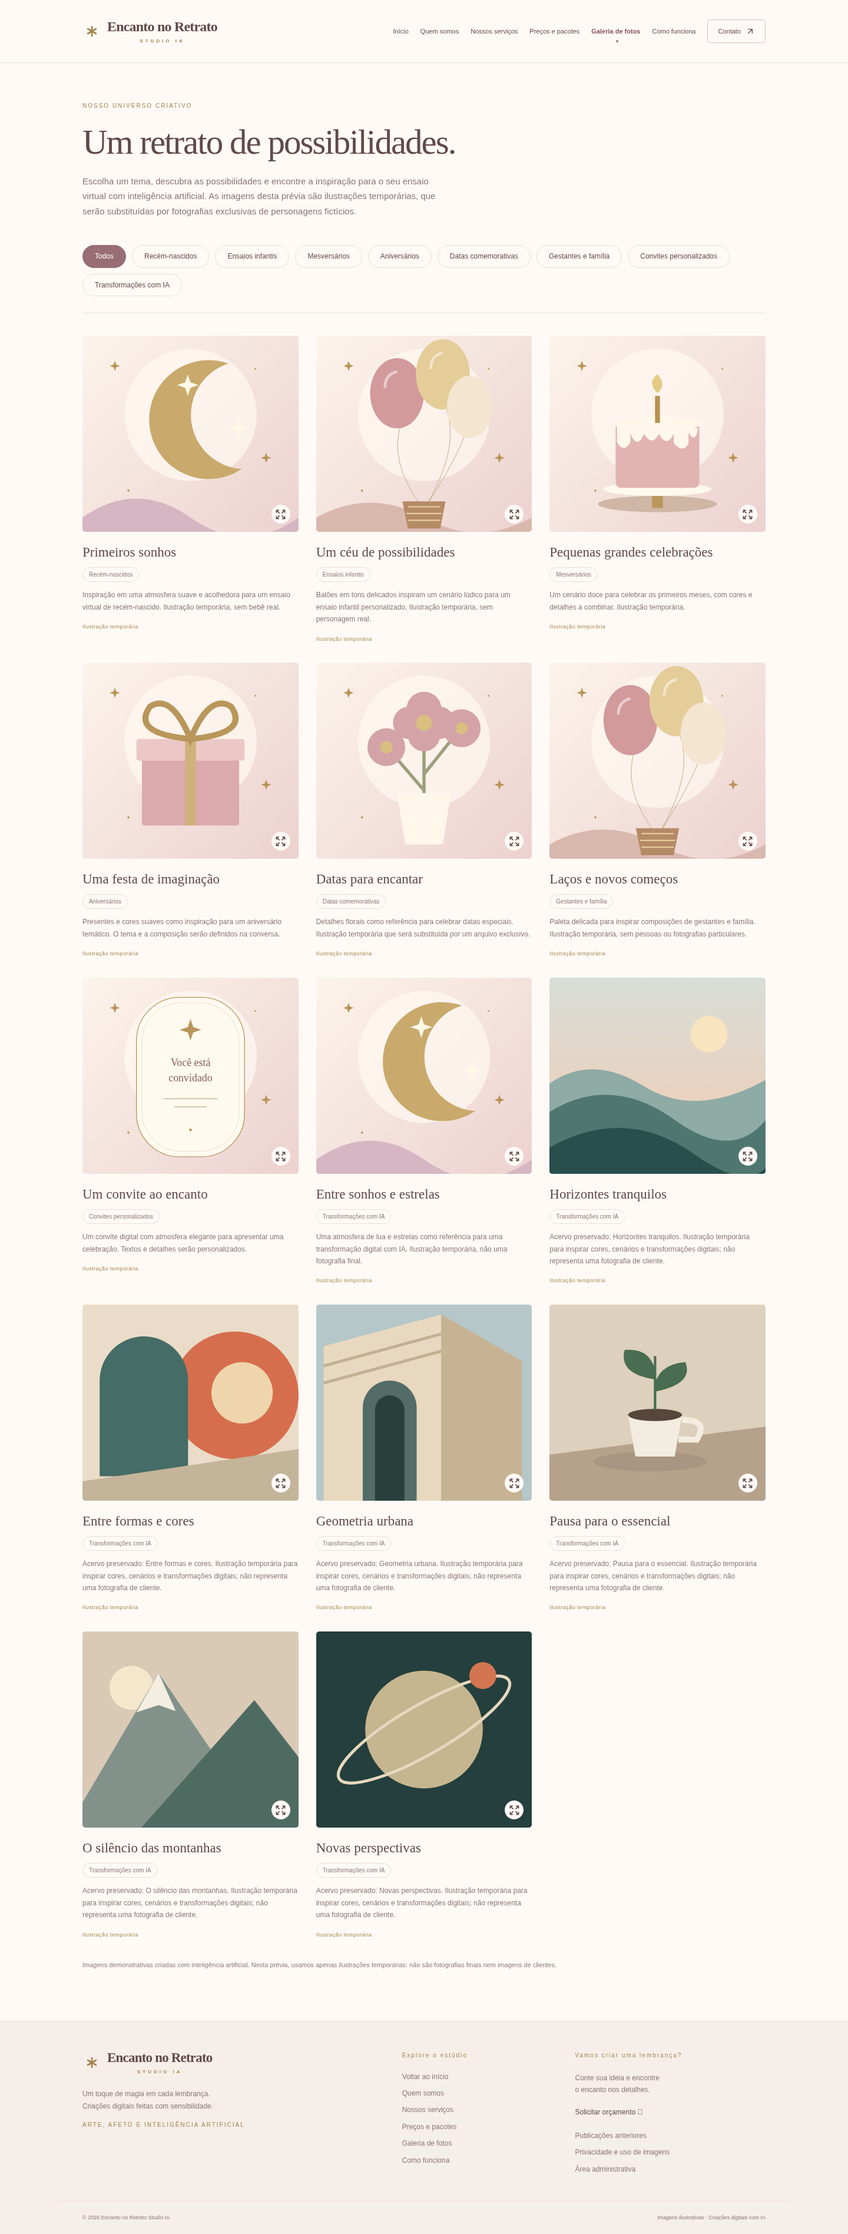
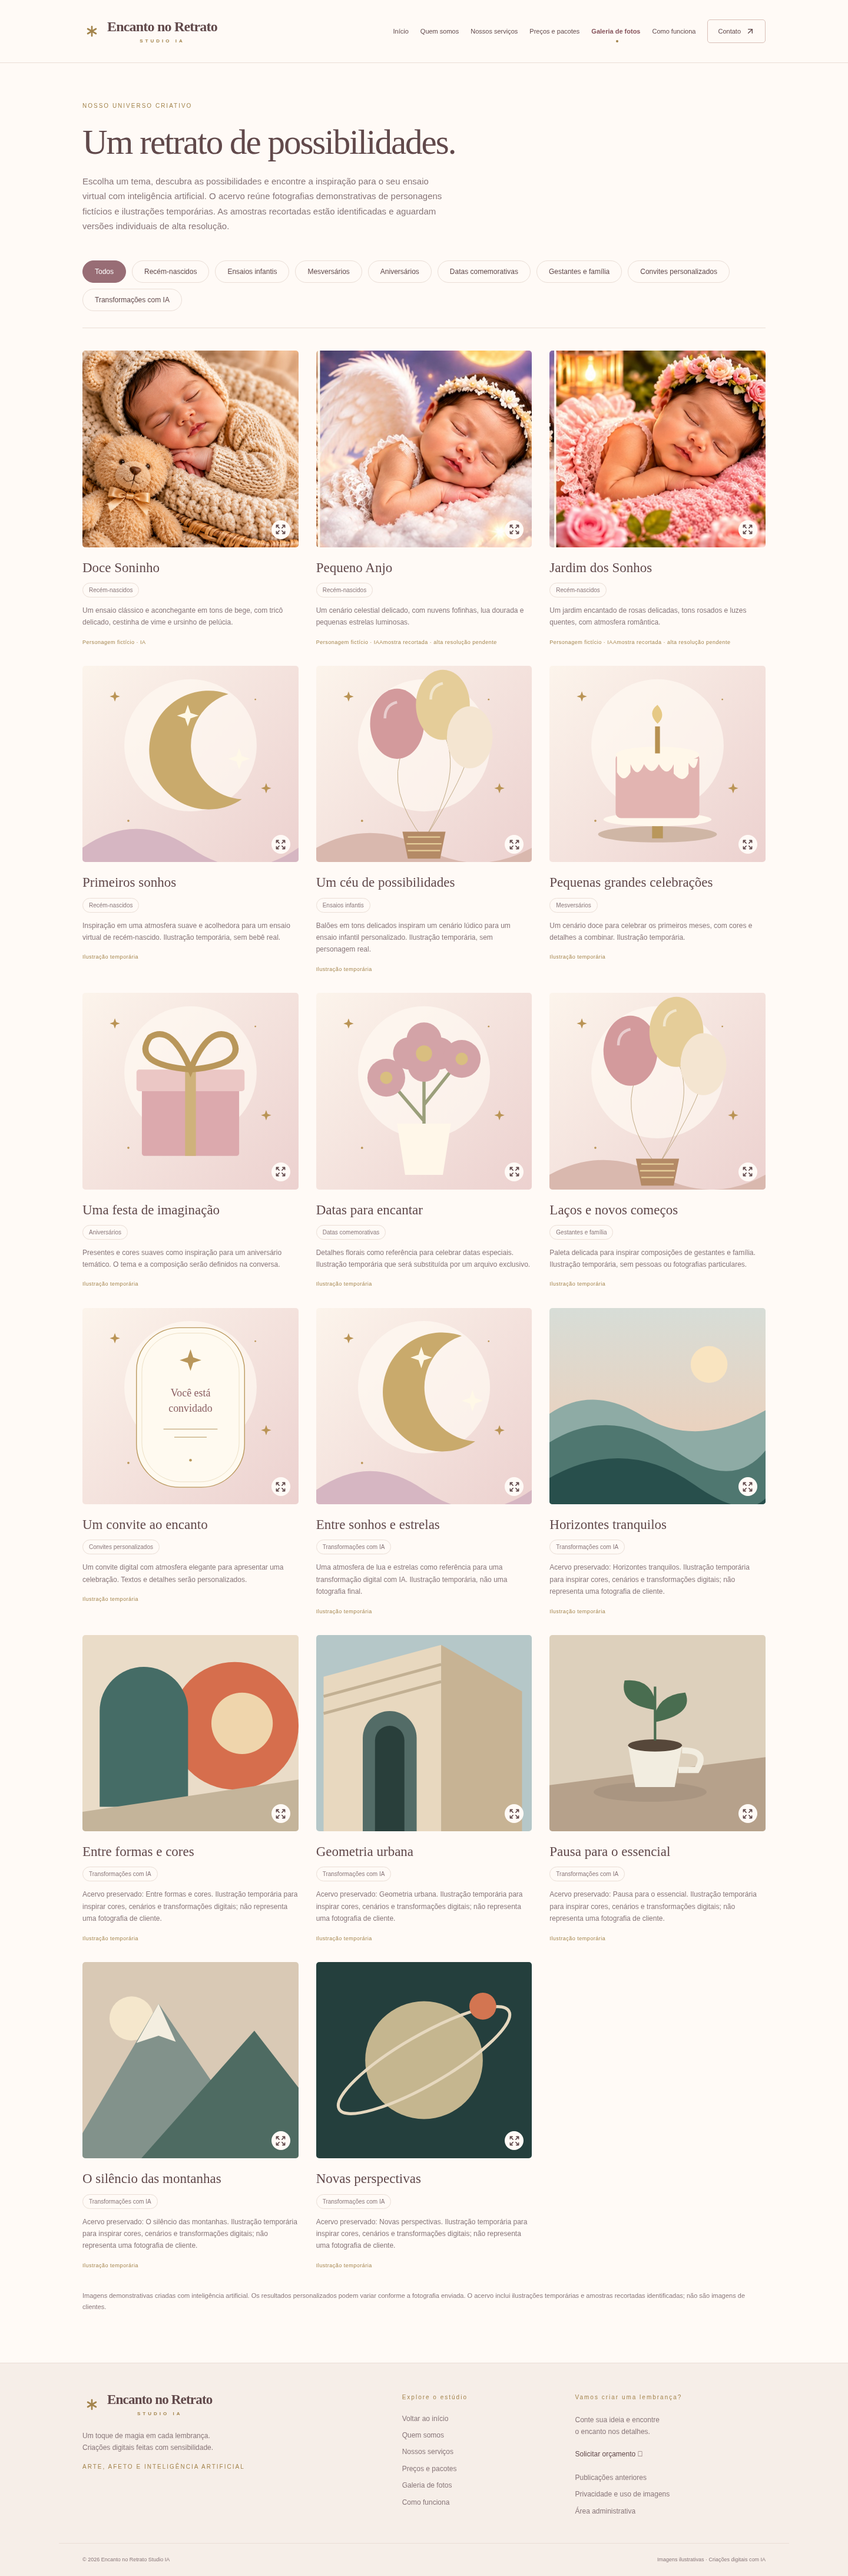
Integrate newborn demo collection with cropped sample notices and prompt records

diff --git a/src/components/content-browser.tsx b/src/components/content-browser.tsx
@@ -110,6 +110,11 @@ export function Gallery({
                 ? "Personagem fictício · IA"
                 : "Ilustração temporária"}
             </span>
+            {p.sample && (
+              <span className="catalog-label">
+                Amostra recortada · alta resolução pendente
+              </span>
+            )}
           </button>
         ))}
       </div>
@@ -120,9 +125,10 @@ export function Gallery({
         </p>
       )}
       <p className="demo-note">
-        Imagens demonstrativas criadas com inteligência artificial. Nesta
-        prévia, usamos apenas ilustrações temporárias: não são fotografias
-        finais nem imagens de clientes.
+        Imagens demonstrativas criadas com inteligência artificial. Os
+        resultados personalizados podem variar conforme a fotografia enviada. O
+        acervo inclui ilustrações temporárias e amostras recortadas
+        identificadas; não são imagens de clientes.
       </p>
       <dialog
         ref={dialog}
@@ -178,6 +184,13 @@ export function Gallery({
                   ? "Imagem demonstrativa criada com IA · personagem fictício"
                   : "Ilustração temporária · arquivo definitivo em preparação"}
               </span>
+              {photo.sample && (
+                <p className="demo-note">
+                  Amostra recortada de apresentação composta. Versão individual
+                  de alta resolução pendente; substituir antes de publicar. O
+                  arquivo foi preservado sem ampliação artificial.
+                </p>
+              )}
               <h2>{photo.title}</h2>
               <p>
                 {photo.description ||

diff --git a/src/lib/newborn-collection.ts b/src/lib/newborn-collection.ts
@@ -1,0 +1,34 @@
+import type { Photo } from "./studio";
+// Prompts and source instructions are kept outside public assets, in docs/colecoes.
+export const newbornCollection: Photo[] = [
+  {
+    id: "rn-01",
+    title: "Doce Soninho",
+    album: "Recém-nascidos",
+    description:
+      "Um ensaio clássico e aconchegante em tons de bege, com tricô delicado, cestinha de vime e ursinho de pelúcia.",
+    image: "/images/recem-nascidos/RN_01_Doce_Soninho.jpg",
+    kind: "ai",
+    sample: false,
+  },
+  {
+    id: "rn-02",
+    title: "Pequeno Anjo",
+    album: "Recém-nascidos",
+    description:
+      "Um cenário celestial delicado, com nuvens fofinhas, lua dourada e pequenas estrelas luminosas.",
+    image: "/images/recem-nascidos/RN_02_Pequeno_Anjo.jpg",
+    kind: "ai",
+    sample: true,
+  },
+  {
+    id: "rn-03",
+    title: "Jardim dos Sonhos",
+    album: "Recém-nascidos",
+    description:
+      "Um jardim encantado de rosas delicadas, tons rosados e luzes quentes, com atmosfera romântica.",
+    image: "/images/recem-nascidos/RN_03_Jardim_dos_Sonhos.jpg",
+    kind: "ai",
+    sample: true,
+  },
+];

diff --git a/src/components/studio-editor.tsx b/src/components/studio-editor.tsx
@@ -309,6 +309,29 @@ export function StudioEditor({
                   </option>
                 </select>
               </label>
+              <label>
+                Qualidade do arquivo
+                <select
+                  value={p.sample ? "sample" : "regular"}
+                  onChange={(e) =>
+                    set(
+                      "photos",
+                      data.photos.map((x) =>
+                        x.id === p.id
+                          ? { ...x, sample: e.target.value === "sample" }
+                          : x,
+                      ),
+                    )
+                  }
+                >
+                  <option value="regular">
+                    Imagem individual — revisar antes de publicar
+                  </option>
+                  <option value="sample">
+                    Amostra recortada — substituir por alta resolução
+                  </option>
+                </select>
+              </label>
               <div className="admin-inline gallery-order">
                 <span>
                   Posição {i + 1} de {data.photos.length}

diff --git a/src/app/galeria/page.tsx b/src/app/galeria/page.tsx
@@ -11,7 +11,7 @@ export default async function Page() {
       <PageIntro
         eyebrow="NOSSO UNIVERSO CRIATIVO"
         title="Um retrato de possibilidades."
-        description="Escolha um tema, descubra as possibilidades e encontre a inspiração para o seu ensaio virtual com inteligência artificial. As imagens desta prévia são ilustrações temporárias, que serão substituídas por fotografias exclusivas de personagens fictícios."
+        description="Escolha um tema, descubra as possibilidades e encontre a inspiração para o seu ensaio virtual com inteligência artificial. O acervo reúne fotografias demonstrativas de personagens fictícios e ilustrações temporárias. As amostras recortadas estão identificadas e aguardam versões individuais de alta resolução."
       />
       <Gallery
         photos={c.photos.map((p) => ({

diff --git a/src/lib/studio.ts b/src/lib/studio.ts
@@ -1,4 +1,5 @@
 import { photos } from "./content";
+import { newbornCollection } from "./newborn-collection";
 import { galleryCategories } from "./gallery";
 export type Photo = {
   id: string;
@@ -7,6 +8,7 @@ export type Photo = {
   image: string;
   description?: string;
   kind?: "placeholder" | "ai";
+  sample?: boolean;
 };
 export type Service = {
   id: string;
@@ -50,6 +52,7 @@ export const defaults: StudioContent = {
   instagramDirect: "",
   categories: [...galleryCategories],
   photos: [
+    ...newbornCollection,
     {
       id: "newborn-demo",
       title: "Primeiros sonhos",

diff --git a/src/lib/validation.ts b/src/lib/validation.ts
@@ -50,6 +50,7 @@ export const contentSchema = z
           image: imagePath,
           description: z.string().trim().max(2000).default(""),
           kind: z.enum(["placeholder", "ai"]).default("placeholder"),
+          sample: z.boolean().default(false),
         }),
       )
       .max(500),

diff --git a/docs/colecoes/RECEM_NASCIDOS.md b/docs/colecoes/RECEM_NASCIDOS.md
@@ -1,0 +1,34 @@
+# Primeira coleção Recém-nascidos — somente prévia
+
+A categoria já existia na branch `desenvolvimento-galeria`. Três novas referências foram acrescentadas ao início do catálogo local, sem remover as 14 referências anteriores, categorias, páginas ou arquivos. Não houve alteração de CSS, cores, fontes, navegação, serviços ou preços.
+
+| Arquivo                     | Título            | Dimensões      | Avaliação e pendência                                                                                                                                 |
+| --------------------------- | ----------------- | -------------- | ----------------------------------------------------------------------------------------------------------------------------------------------------- |
+| RN_01_Doce_Soninho.jpg      | Doce Soninho      | 1122 × 1402 px | JPEG íntegro; imagem com detalhes mais definidos, proporção próxima de 4:5. Adequada para avaliação na prévia. Publicação ainda depende de aprovação. |
+| RN_02_Pequeno_Anjo.jpg      | Pequeno Anjo      | 407 × 625 px   | Amostra recortada, resolução limitada e borda clara do recorte visível. Substituir por arquivo individual de alta resolução antes de publicar.        |
+| RN_03_Jardim_dos_Sonhos.jpg | Jardim dos Sonhos | 412 × 625 px   | Amostra recortada, resolução limitada e borda clara do recorte visível. Substituir por arquivo individual de alta resolução antes de publicar.        |
+
+Os JPEGs foram decodificados e inspecionados visualmente. Não contêm campos EXIF. Foram copiados sem recompactação, edição, novo recorte ou ampliação artificial; os hashes dos arquivos originais estão no manifesto. As imagens 02 e 03 não são apresentadas como originais finais de alta resolução. O modal permite ver o arquivo completo e abrir o original.
+
+A informação de origem IA e variação de resultados aparece na galeria. As amostras recebem aviso nos cartões e no modal. Títulos e descrições públicos são os fornecidos no ZIP. A declaração de personagens fictícios vem do pacote; não há fotografias de clientes ou filhos adicionadas nesta etapa.
+
+## Arquivos e reprodução futura
+
+- `src/lib/newborn-collection.ts`: dados públicos, sem prompts.
+- `public/images/recem-nascidos/`: os três JPEGs originais.
+- `docs/colecoes/recem-nascidos.prompts.json`: títulos, descrições, prompts originais, dimensões, pendências e hashes, organizados para consulta futura.
+- `docs/colecoes/INSTRUCOES_PARA_CODEX_RECEM_NASCIDOS.md`: referência às instruções fornecidas.
+
+Os documentos em `docs/` não são rotas ou arquivos estáticos públicos do site e não são importados pelos componentes. Os prompts são apenas registros: não foram executados. Referências futuras devem ser fictícias ou autorizadas; manter os exemplos como criações digitais, sem tratar cenários de fantasia como poses físicas reais.
+
+## Substituir as amostras depois
+
+Após receber as versões individuais definitivas, substituir somente o arquivo/referência correspondente, preservando ID, título, descrição e categoria. O campo `sample` mantém a pendência identificada. Não basta ampliar o JPEG atual para remover a pendência.
+
+O painel ganhou uma seleção de qualidade para conservar esse aviso e removê-lo somente após conferir o arquivo substituto. Login, upload e gravação continuam pendentes da configuração do Supabase. Nenhum serviço externo foi configurado. Para um banco já preenchido futuramente, importar as novas referências de forma aditiva pelo painel; o conteúdo local não sobrescreve o banco.
+
+## Testar no Windows
+
+Baixe a branch `desenvolvimento-galeria` atualizada no GitHub por Code > Download ZIP e extraia em uma pasta nova. Com Node.js LTS instalado, abra `cmd` na pasta com `package.json` e execute `npm ci`, depois `npm run dev`. Abra `http://localhost:3000/galeria` e selecione Recém-nascidos. São três fotografias demonstrativas novas e uma ilustração anterior preservada. Clique em cada uma para conferir descrição, qualidade e “Quero um ensaio assim”.
+
+Sem links oficiais, os botões de Instagram e Messenger continuam indicados como indisponíveis; o resumo copiável funciona. Sem Supabase, o catálogo usa dados locais. Nenhum deploy ou alteração da branch main faz parte desta integração.

diff --git a/docs/colecoes/INSTRUCOES_PARA_CODEX_RECEM_NASCIDOS.md b/docs/colecoes/INSTRUCOES_PARA_CODEX_RECEM_NASCIDOS.md
@@ -1,0 +1,30 @@
+# Encanto no Retrato Studio IA — Coleção Recém-nascidos
+
+Estas imagens são demonstrações geradas por IA, com bebês fictícios. RN_02 e RN_03 foram recortadas de uma apresentação composta e têm resolução inferior à imagem RN_01; são amostras iniciais, não arquivos finais de alta resolução. Antes da publicação, verificar qualidade visual e aprovação.
+
+## RN_01_Doce_Soninho.jpg
+Categoria: Recém-nascidos (se não existir, cadastrar como nova categoria somente após aprovação, sem substituir categorias existentes)
+Título: Doce Soninho
+Descrição: Um ensaio clássico e aconchegante em tons de bege, com tricô delicado, cestinha de vime e ursinho de pelúcia.
+Prompt de estilo: Criar retrato fotográfico profissional do bebê da foto de referência, preservando suas características faciais sem inventar identidade. Cenário de estúdio bege, cesta de vime acolchoada, manta e gorro de tricô creme com orelhinhas, ursinho de pelúcia bege ao lado, luz suave e quente, textura realista, enquadramento vertical 4:5. Não alterar a anatomia, não acrescentar dedos ou membros, sem texto ou marcas. Priorizar segurança: não colocar bebê real em pose arriscada; composições de fantasia são digitais.
+
+## RN_02_Pequeno_Anjo.jpg
+Categoria: Recém-nascidos
+Título: Pequeno Anjo
+Descrição: Um cenário celestial delicado, com nuvens fofinhas, lua dourada e pequenas estrelas luminosas.
+Prompt de estilo: Retrato fotográfico de fantasia do bebê da foto de referência, preservando características faciais. Bebê aparentemente dormindo sobre nuvens digitais, cenário celestial lavanda e rosa-claro, lua crescente dourada e estrelas brilhantes, asas de anjo como elemento visual digital decorativo, roupa branca delicada, luz suave, realismo cinematográfico, vertical 4:5. Sem texto ou marcas; não representar cenário como pose física real.
+
+## RN_03_Jardim_dos_Sonhos.jpg
+Categoria: Recém-nascidos
+Título: Jardim dos Sonhos
+Descrição: Um jardim encantado de rosas delicadas, tons rosados e luzes quentes, com atmosfera romântica.
+Prompt de estilo: Retrato fotográfico de fantasia do bebê da foto de referência, preservando características faciais. Bebê em repouso seguro sobre manta rosa, roupa de renda rosa e coroa de flores, jardim digital de rosas cor-de-rosa, folhagens e lanternas quentes ao fundo, bokeh suave, estética fotográfica realista, vertical 4:5. Sem texto ou marcas, sem poses físicas arriscadas.
+
+## Regras de implementação
+- Manter layout, fontes, cores, navegação, preços e categorias existentes.
+- Antes de criar a categoria Recém-nascidos, verificar se ela já existe; se não existir, solicitar aprovação para acrescentá-la.
+- Inserir as três fotos como novas referências sem apagar o acervo existente.
+- Conservar títulos, descrições e prompts em dados estruturados; prompts não precisam ficar visíveis ao cliente.
+- Mostrar aviso: 'Imagens demonstrativas criadas com inteligência artificial. Os resultados personalizados podem variar conforme a fotografia enviada.'
+- Não publicar nem fazer deploy sem autorização.
+- Verificar resolução/qualidade das imagens 02 e 03 antes de publicar; se necessário, solicitar novas versões individuais de alta resolução.

diff --git a/docs/GALERIA.md b/docs/GALERIA.md
@@ -2,9 +2,9 @@
 
 ## O que mudou
 
-A rota `/galeria` apresenta as oito categorias solicitadas e 14 referências temporárias de ensaio. As nove imagens do catálogo anterior continuam presentes, com seus identificadores, títulos e arquivos preservados. Os seis exemplos editoriais anteriores estão agrupados em Transformações com IA como referências de atmosfera e cenários; não são apresentados como retratos finais.
+A rota `/galeria` apresenta as oito categorias solicitadas e 17 referências de ensaio (14 ilustrações anteriores e três fotografias demonstrativas de IA da coleção Recém-nascidos). As nove imagens do catálogo anterior continuam presentes, com seus identificadores, títulos e arquivos preservados. Os seis exemplos editoriais anteriores estão agrupados em Transformações com IA como referências de atmosfera e cenários; não são apresentados como retratos finais.
 
-Cada cartão abre uma imagem ampliada, título, categoria e descrição. O original abre em outra aba sem recortar ou reduzir o arquivo. As imagens atuais são ilustrações temporárias feitas com auxílio de IA, não fotografias de pessoas reais ou recortes de uma montagem. Fotografias exclusivas de personagens fictícios podem substituí-las depois.
+Cada cartão abre uma imagem ampliada, título, categoria e descrição. O original abre em outra aba sem recortar ou reduzir o arquivo. O acervo anterior usa ilustrações temporárias feitas com auxílio de IA. A coleção Recém-nascidos acrescenta três fotografias demonstrativas de personagens fictícios; duas são amostras recortadas explicitamente identificadas e pendentes de substituição antes da publicação. Veja `docs/colecoes/RECEM_NASCIDOS.md` para a avaliação e os prompts organizados.
 
 “Quero um ensaio assim” abre a escolha de canal e um resumo com nome, categoria, descrição e identificador do exemplo. O visitante copia a referência e envia pelo Instagram Direct ou Messenger. Não há preenchimento automático presumido nem envio de mensagens. Links ainda vazios aparecem indisponíveis, com explicação; não foram inventados perfis.
 
